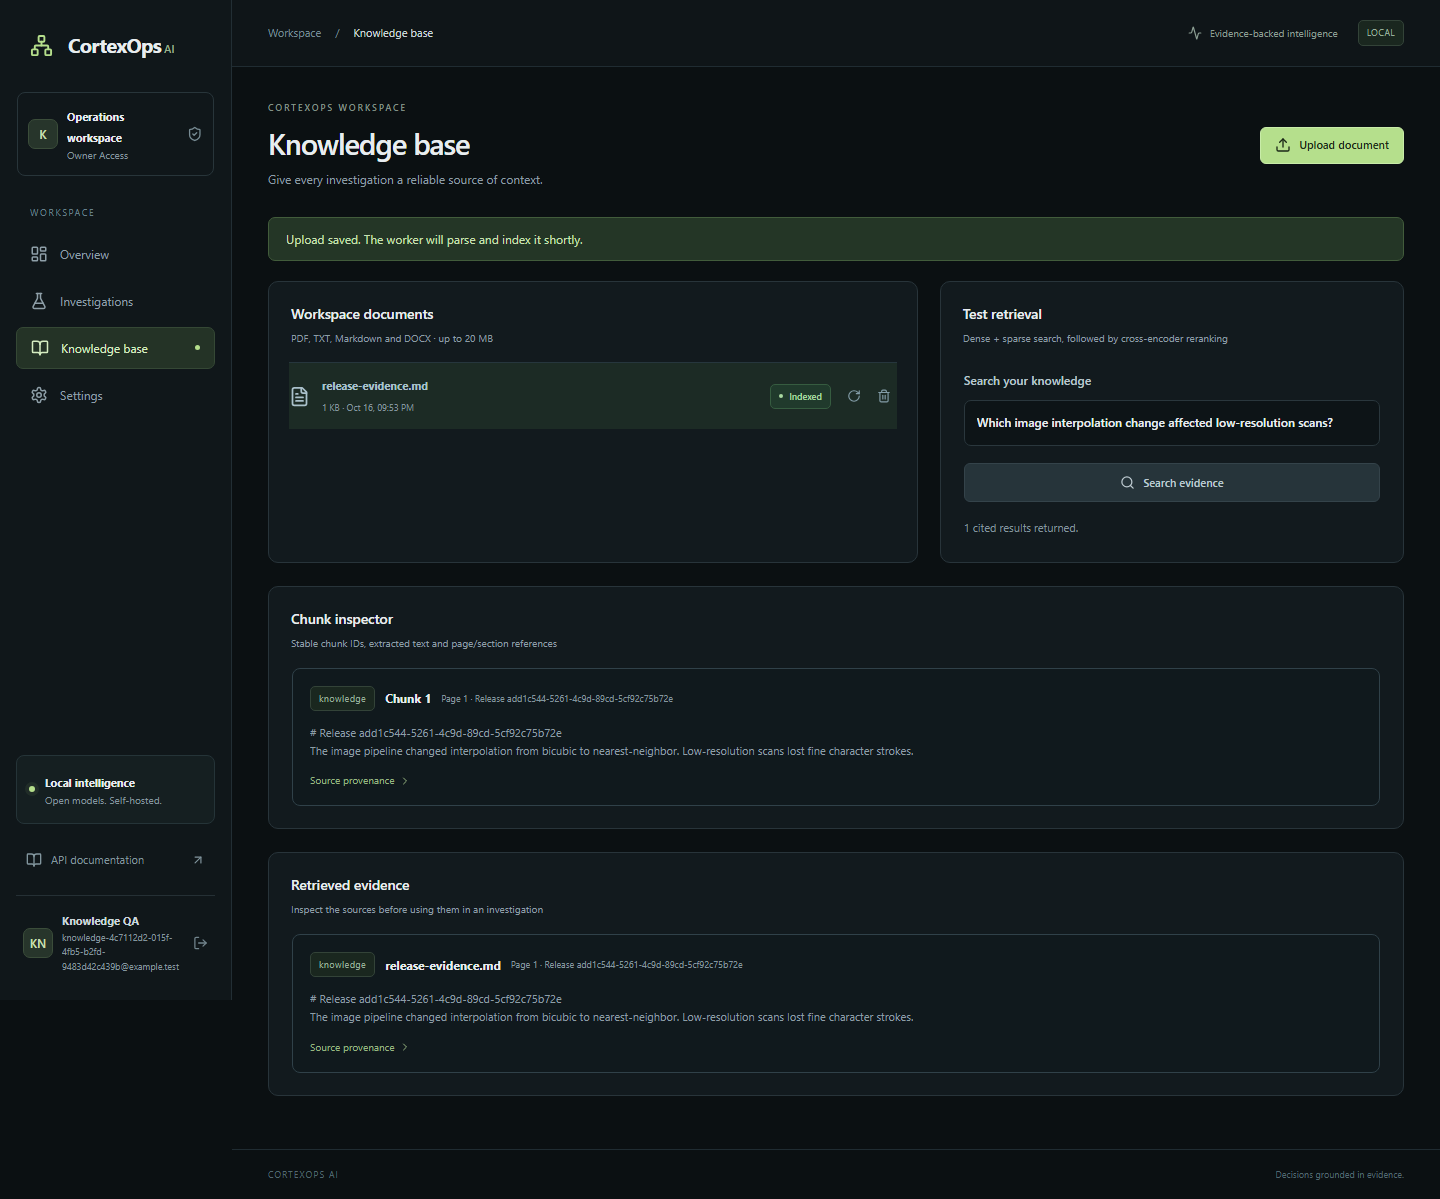
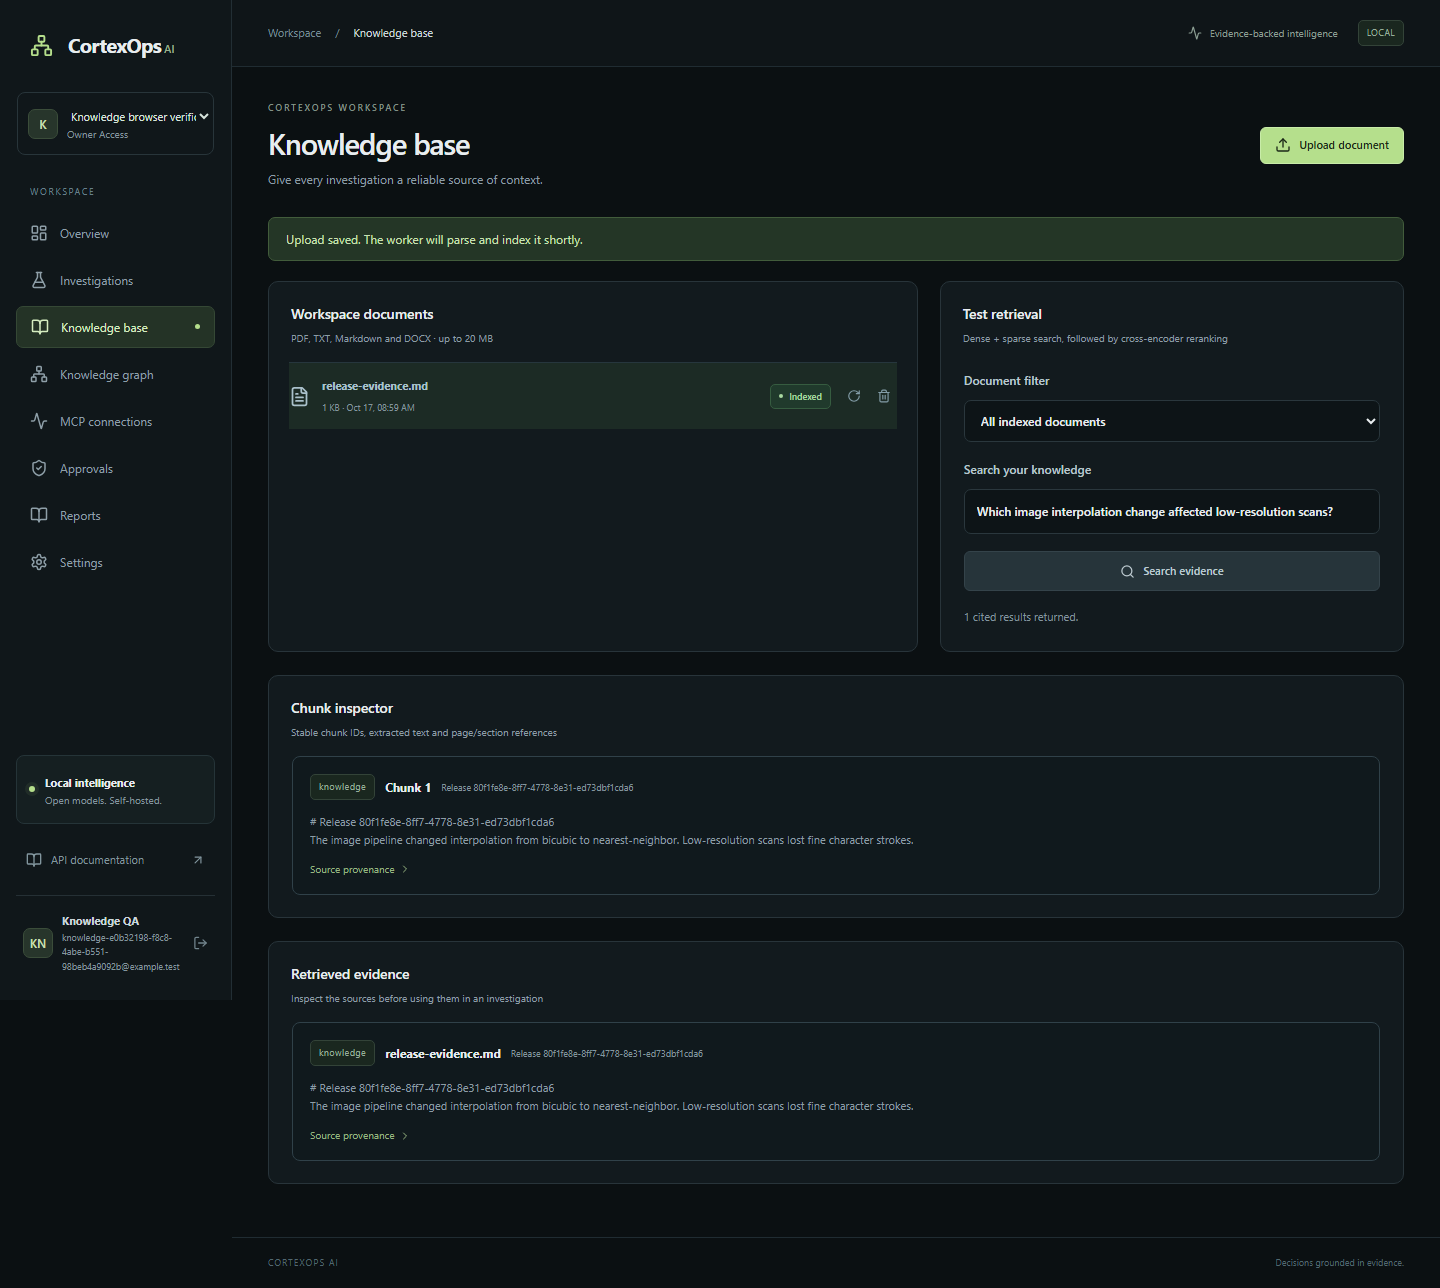
Document verified acceptance results and publish synthetic demo artifacts

diff --git a/frontend/tests/tools.spec.ts b/frontend/tests/tools.spec.ts
@@ -26,6 +26,7 @@ test('discover real MCP tools, invoke a read, and reject a proposed write', asyn
   await page.getByLabel('Arguments (JSON)').fill(JSON.stringify({ title: 'Browser approval verification', body: 'This is a local synthetic action proposed for review, then rejected by the user.' }));
   await page.getByRole('button', { name: 'Request approval', exact: true }).click();
   await expect(page.getByText('Approval requested. Review the exact payload on the Approvals page before any write can execute.')).toBeVisible();
+  await page.evaluate(() => window.scrollTo(0, 0));
   await page.screenshot({ path: '../docs/screenshots/tools.png', fullPage: true });
   await page.getByRole('link', { name: 'Approvals', exact: true }).click();
   await expect(page.getByRole('heading', { name: 'Approval inbox' })).toBeVisible();

diff --git a/docs/VERIFICATION.md b/docs/VERIFICATION.md
@@ -1,0 +1,81 @@
+# Verification - 17 October 2026
+
+All results below were observed, not inferred from generated code. Local logs
+remain under ignored `setup/*.log`; the repository contains reproducible tests,
+synthetic evaluation output, screenshots and a sample real investigation export.
+
+## Application acceptance
+
+| Area | Evidence |
+| --- | --- |
+| Backend regression | **22 passed in 195.35s**; `setup/final-backend-tests.log` |
+| Real model | Qwen3 1.7B through Ollama; actual planner/diagnosis inference and token accounting |
+| Recovery | Pause, permission denial, failed-node resume from PostgreSQL checkpoints; planner executed once |
+| Tool protocol | Five actual MCP SDK HTTP servers; discovery/read/write authorization and restricted SQL role |
+| Documents | Real parsing, CPU embedding, Qdrant dense/sparse fusion, graph expansion and reranking |
+| Query abstention | Real cross-encoder rejects an unrelated query when its top score is below the configured floor |
+| Graph | Separate actual Neo4j synchronization/provenance/isolation test run: **3 passed in 23.14s** with PDF/workspace tests |
+| Docker | Init, API, both Celery queues, all five MCP servers and Nginx started; host Ollama access returned HTTP 200 |
+| Browser | **4 passed in 3.0 minutes** through Nginx; `setup/final-browser-combined.log` |
+| Report | Real model selected the observed bicubic-to-nearest preprocessing change; numerical results computed from source rows |
+| PDF | Downloaded via browser, reopened with pypdf, rendered with Poppler and visually inspected; seven pages |
+| Telemetry | Actual API spans received by collector debug exporter; Prometheus worker-derived gauges; Grafana dashboard provisioned |
+| Static check | Ruff `F,E9` passed; TypeScript/Vite production build passed |
+| GitHub CI | [Successful run on c29e78b](https://github.com/ShobinSamS/cortexops-ai/actions/runs/38998911293), including Linux non-LLM integration and 3 browser checks |
+
+The three backend warnings come from the MCP SDK's deprecated transport wrapper
+in a direct negative-test helper. Application clients use the supported transport.
+The CI job's optional real-model input was not enabled; real inference was verified
+locally in both the backend regression and complete browser workflow.
+
+## Evaluation scope and results
+
+`evaluation/results.json` preserves the initial real five-case run. Each case
+created an isolated workspace and used actual workers/tools/models. Relevant
+document labels are small synthetic sets; Recall@6 is document-level, and precision
+is calculated among unique retrieved documents, not chunks.
+
+| Baseline case | Measured behavior |
+| --- | --- |
+| Successful preprocessing regression | Recall@6 1.0; document precision 0.333; citation-ID validity 1.0; expected root-cause terms matched; 123.39s |
+| Ambiguous source-mix question | Recall@6 1.0; precision 0.333; citation-ID validity 1.0; explicitly a hypothesis report; 68.39s |
+| Unrelated astronomy query | Returned unrelated ranked context; abstention false; demonstrated that valid IDs alone do not establish relevance; 64.12s |
+| Deliberately denied analytics | Failed with the expected permission boundary; 17.72s |
+| Empty workspace | Completed with insufficient evidence and no invented cause; 15.03s |
+
+The unrelated-query result prompted two changes: a configurable top-logit floor
+for retrieval and an empty-findings option for unsupported diagnosis. The separate
+post-change run, `evaluation/abstention-results.json`, returned **zero retrieved
+documents** for the unrelated search and **no supported hypothesis** for its
+investigation in 64.97s. The final 22-test suite and four browser workflows ran
+with these changes, preserving the successful regression explanation.
+
+These measurements do not establish general enterprise accuracy, semantic
+entailment or causal correctness. The floor is a development calibration for
+the selected cross-encoder; evaluate it again for a different corpus/model.
+
+## Fixes discovered through verification
+
+- Initialized SDK checkpoint tables before workers held execution leases, removing
+  an index-creation/open-transaction deadlock.
+- Separated investigation and ingestion/search workers to prevent solo-worker
+  retrieval deadlock.
+- Bound approvals to exact arguments and destination, invalidating mode/repository
+  changes and replay; ambiguity after a possible external write is not retried.
+- Used actual model selection among recorded diffs after unconstrained small-model
+  prose invented an unchanged weight explanation. The quality assertion remained.
+- Committed API transactions before sending HTTP responses, eliminating an actual
+  discovery/refetch race and allowing commit failures to return errors properly.
+- Derived report coverage/caveats from recorded execution rather than accepting
+  model caveats that contradicted measured observations.
+- Corrected CI's backend working directory and its install/test browser-cache path.
+
+## Practical limits
+
+This verifies a complete local demonstration, not an independent production audit.
+Only GitHub has a live external adapter; other operational tools read persisted
+workspace records. OCR, SSO, HA, zombie-job sweeping and long-term trace search are
+outside this implementation. TLS, protected identity/registration, production DB
+roles, private networks and tested backups are operator deployment work described
+in the operations guide. No real GitHub issue was created by the test/evaluation
+workflows; approved write tests created only isolated local incidents.

diff --git a/README.md b/README.md
@@ -12,8 +12,9 @@ External changes require a separate human approval of the exact action/destinati
 
 ## Status and verification
 
-The complete Docker application starts successfully through Nginx. Final
-evaluation and CI checks are ongoing; the results below describe their exact scope.
+The complete local demonstration is implemented and verified through Nginx.
+Detailed test scope, measured evaluation results and limits are recorded in the
+[verification guide](docs/VERIFICATION.md).
 
 | Check | Recorded result |
 | --- | --- |
@@ -23,9 +24,10 @@ evaluation and CI checks are ongoing; the results below describe their exact sco
 | Evidence validation | **6 passed**, including fabricated-citation rejection and honest insufficiency |
 | Frontend production build | TypeScript/Vite build passed; route bundles split |
 | Docker deployment | Backend/frontend images built; init, API, two workers, five MCP servers and Nginx started |
-| Browser | All four workflows passed individually against Nginx, including real inference; final combined rerun pending |
+| Browser | **4 passed in 3.0 minutes** against Nginx, including real inference and PDF download |
 | Observability | Real collector spans, Prometheus worker gauges and provisioned Grafana dashboard verified |
-| Evaluation / CI | Five baseline scenarios recorded; abstention and CI configuration fixes being rechecked |
+| Evaluation | Five real baseline scenarios; separate unrelated-query recheck abstained and produced no supported hypothesis |
+| CI | [GitHub Actions passed](https://github.com/ShobinSamS/cortexops-ai/actions/runs/38998911293): Linux integration, build, static and browser checks |
 
 Tests use real isolated databases, queues, model inference and SDK round trips.
 Mocks are limited to focused evidence-validation tests. This is an engineering
@@ -235,6 +237,7 @@ do not run a native stack and isolated test stack together on low available RAM.
 - [Architecture, ER diagram, agents and contracts](docs/ARCHITECTURE.md)
 - [Operations, monitoring, recovery, backups and boundaries](docs/OPERATIONS.md)
 - [Evaluation](evaluation/README.md), [original brief](docs/PROJECT_BRIEF.txt)
+- [Recorded acceptance checks and evaluation results](docs/VERIFICATION.md)
 - Live [Swagger API](http://127.0.0.1:8000/docs), [OpenAPI JSON](http://127.0.0.1:8000/openapi.json)
 - [MCP server ownership/startup](mcp-servers/README.md)
 
@@ -250,11 +253,15 @@ contains actual Compose monitoring/provisioning configs. Lockfiles pin dependenc
 
 Actual browser captures, not design mockups:
 
-![Overview](docs/screenshots/overview.png)
+![Overview with synthetic observations](docs/screenshots/overview-populated.png)
 ![Knowledge search](docs/screenshots/knowledge.png)
+![Connected evidence graph](docs/screenshots/graph.png)
+![Live investigation](docs/screenshots/execution-live.png)
 
-[Mobile view](docs/screenshots/mobile.png). Graph, execution and report captures
-are added as the final browser workflow verifies them.
+[Completed execution](docs/screenshots/execution.png), [report](docs/screenshots/report.png),
+[MCP workbench](docs/screenshots/tools.png), [approval review](docs/screenshots/approvals.png),
+and [mobile view](docs/screenshots/mobile.png). Exports from synthetic verification
+are under `output/pdf/`.
 
 ## Troubleshooting
 
@@ -277,3 +284,6 @@ are added as the final browser workflow verifies them.
 
 Stop with `setup/dev.ps1 -Action stop` or `docker compose stop`. Named volumes
 persist. `down --volumes` deletes data and is not a routine shutdown command.
+
+Project source is [MIT licensed](LICENSE). Dependency/service/model licenses retain
+their own terms; see the setup license inventory and linked upstream licenses.

diff --git a/docs/NEXT_SESSION.md b/docs/NEXT_SESSION.md
@@ -1,5 +1,10 @@
 # Resume checkpoint - 16 October 2026
 
+**Superseded on 17 October 2026:** the remaining local implementation and acceptance
+checks below have been completed. See `VERIFICATION.md` for 22 backend tests,
+4 browser workflows, actual telemetry, evaluation results and successful GitHub CI.
+The original pause notes are retained as development history, not a current to-do.
+
 The user paused implementation to continue tomorrow and requested a new GitHub
 repository containing the current project. Continue the original full application
 objective next session; do not treat Phase 6 as complete.
